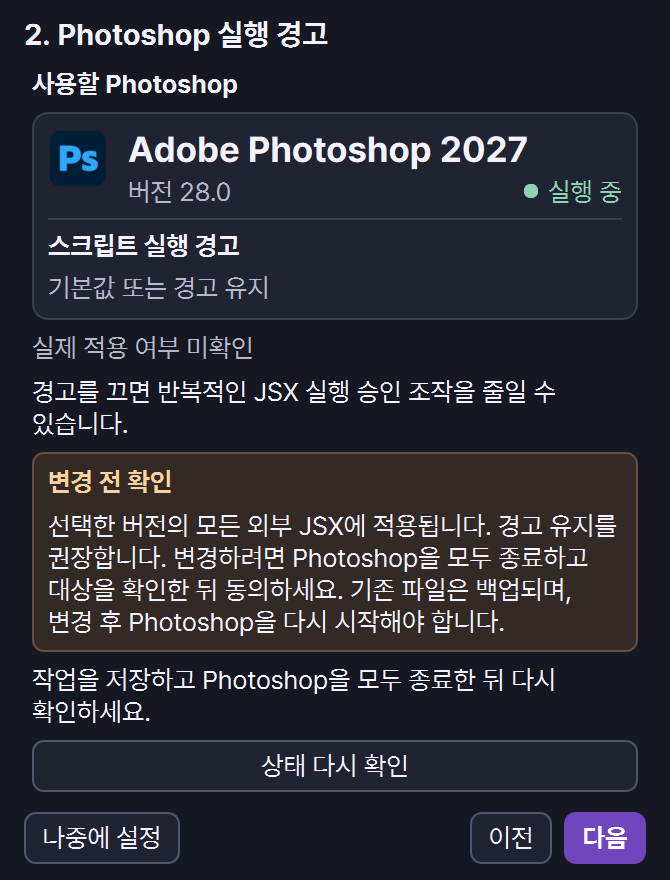
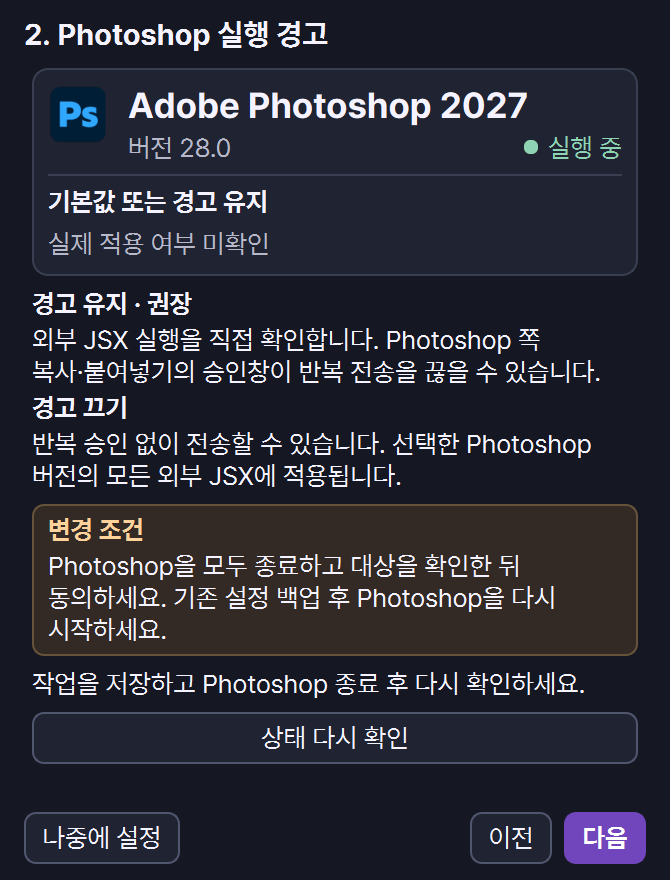
Explain the tradeoffs of Photoshop script warnings

diff --git a/bridge_ui.py b/bridge_ui.py
@@ -808,9 +808,12 @@ for _language, _guide in {
         "guide_ps_no_path": "지정되지 않음",
         "guide_ase_title": "Aseprite",
         "guide_warning_status": "스크립트 실행 경고",
-        "guide_warning_intro": "경고를 끄면 반복적인 JSX 실행 승인 조작을 줄일 수 있습니다.",
-        "guide_warning_caution": "변경 전 확인",
-        "guide_warning_optional": "선택한 버전의 모든 외부 JSX에 적용됩니다. 경고 유지를 권장합니다. 변경하려면 Photoshop을 모두 종료하고 대상을 확인한 뒤 동의하세요. 기존 파일은 백업되며, 변경 후 Photoshop을 다시 시작해야 합니다.",
+        "guide_warning_keep_title": "경고 유지 · 권장",
+        "guide_warning_keep_tradeoff": "외부 JSX 실행을 직접 확인합니다. Photoshop 쪽 복사·붙여넣기의 승인창이 반복 전송을 끊을 수 있습니다.",
+        "guide_warning_off_title": "경고 끄기",
+        "guide_warning_off_tradeoff": "반복 승인 없이 전송할 수 있습니다. 선택한 Photoshop 버전의 모든 외부 JSX에 적용됩니다.",
+        "guide_warning_caution": "변경 조건",
+        "guide_warning_optional": "Photoshop을 모두 종료하고 대상을 확인한 뒤 동의하세요. 기존 설정 백업 후 Photoshop을 다시 시작하세요.",
         "guide_warning_edit": "실행 경고 변경 검토…",
         "guide_warning_keep": "기본값 또는 경고 유지",
         "guide_warning_disabled": "설정 파일에서 경고 끔 확인 · 적용하려면 재시작 필요",
@@ -858,9 +861,12 @@ for _language, _guide in {
         "guide_ps_no_path": "Not set",
         "guide_ase_title": "Aseprite",
         "guide_warning_status": "Script warnings",
-        "guide_warning_intro": "Turning off warnings reduces repeated JSX approval prompts.",
-        "guide_warning_caution": "Before changing warnings",
-        "guide_warning_optional": "This affects all external JSX in the selected version. Keeping warnings is recommended. To change the setting, close Photoshop, review the target and confirm. Existing files are backed up. Restart Photoshop afterward.",
+        "guide_warning_keep_title": "Keep warnings · Recommended",
+        "guide_warning_keep_tradeoff": "Review external JSX before it runs. Copying or pasting in Photoshop can prompt for approval and interrupt repeated transfers.",
+        "guide_warning_off_title": "Turn warnings off",
+        "guide_warning_off_tradeoff": "Transfer without repeated script approval prompts. This applies to all external JSX in the selected Photoshop version.",
+        "guide_warning_caution": "Before changing",
+        "guide_warning_optional": "Close all Photoshop instances, review the target and impact, then confirm. The existing preferences file is backed up. Restart Photoshop to apply.",
         "guide_warning_edit": "Review script warning change…",
         "guide_warning_keep": "Default or warnings kept",
         "guide_warning_disabled": "Disabled in preferences · restart to apply",
@@ -908,9 +914,12 @@ for _language, _guide in {
         "guide_ps_no_path": "未指定",
         "guide_ase_title": "Aseprite",
         "guide_warning_status": "スクリプト実行警告",
-        "guide_warning_intro": "警告をオフにすると JSX 実行時の繰り返し承認を減らせます。",
-        "guide_warning_caution": "変更前の確認",
-        "guide_warning_optional": "選択したバージョンの全外部 JSX に適用されます。警告の維持を推奨します。変更する場合は Photoshop をすべて終了し、対象を確認して同意してください。既存ファイルはバックアップされます。変更後に Photoshop を再起動してください。",
+        "guide_warning_keep_title": "警告を維持 · 推奨",
+        "guide_warning_keep_tradeoff": "外部 JSX の実行を自分で確認できます。Photoshop 側でコピーや貼り付けをする際に承認が表示されると、連続転送が中断されることがあります。",
+        "guide_warning_off_title": "警告をオフ",
+        "guide_warning_off_tradeoff": "繰り返し承認せずに転送できます。選択した Photoshop バージョンのすべての外部 JSX に適用されます。",
+        "guide_warning_caution": "変更条件",
+        "guide_warning_optional": "Photoshop をすべて終了し、対象と影響を確認して同意してください。既存の設定ファイルはバックアップされます。適用には Photoshop の再起動が必要です。",
         "guide_warning_edit": "実行警告の変更を確認…",
         "guide_warning_keep": "既定値または警告を維持",
         "guide_warning_disabled": "設定ファイルで警告オフを確認 · 適用には再起動が必要",
@@ -953,7 +962,7 @@ GUIDE_FLOW = {
         "name": '초기 설정',
         "switch": '다른 버전으로 전환하려면 먼저 Photoshop을 종료하는 것을 권장합니다.',
         "refresh": '상태 다시 확인',
-        "stop": '작업을 저장하고 Photoshop을 모두 종료한 뒤 다시 확인하세요.',
+        "stop": '작업을 저장하고 Photoshop 종료 후 다시 확인하세요.',
         "disabled": '설정 파일에서 경고 끔 확인',
         "live": '실제 적용 여부 미확인',
         "restart": '이 세션에서 변경했습니다. 적용하려면 Photoshop을 다시 시작하세요.',
@@ -2241,8 +2250,9 @@ class AsepriteSetupDialog(QDialog):
 class GuidePhotoshopCard:
     def __init__(self, layout, lang, add_text, *, connection=False, warnings=False):
         self.lang = lang
-        heading = add_text(layout, lang["guide_ps_title"])
-        heading.setProperty("uiHeading", True)
+        if connection:
+            heading = add_text(layout, lang["guide_ps_title"])
+            heading.setProperty("uiHeading", True)
         panel = workspace_section(layout)
         header = QGridLayout()
         header.setHorizontalSpacing(8)
@@ -2286,10 +2296,10 @@ class GuidePhotoshopCard:
             note.setProperty("uiMuted", True)
         self.warning = None
         if warnings:
-            heading = add_text(panel, lang["guide_warning_status"])
-            heading.setProperty("uiHeading", True)
             self.warning = add_text(panel, "")
-            self.warning.setProperty("uiMuted", True)
+            self.warning.setProperty("uiHeading", True)
+            self.warning_live = add_text(panel, "")
+            self.warning_live.setProperty("uiMuted", True)
 
     def set_status(self, info, path, runtime, other_running, warning, icon):
         self.icon.setPixmap(icon)
@@ -2352,14 +2362,20 @@ class InitialSetupDialog(QDialog):
                 self.add_text(content, self.flow("switch")).setProperty("uiMuted", True)
             elif step == 1:
                 self.warning_status = GuidePhotoshopCard(content, self.lang, self.add_text, warnings=True)
-                self.warning_live = self.add_text(content, "")
-                self.warning_live.setProperty("uiMuted", True)
-                self.add_text(content, self.lang["guide_warning_intro"])
+                self.warning_live = self.warning_status.warning_live
+                choices = QVBoxLayout()
+                choices.setSpacing(2)
+                for choice in ("keep", "off"):
+                    heading = self.add_text(choices, self.lang[f"guide_warning_{choice}_title"])
+                    heading.setProperty("uiHeading", True)
+                    self.add_text(choices, self.lang[f"guide_warning_{choice}_tradeoff"])
+                content.addLayout(choices)
                 note = QWidget()
                 note.setObjectName("warningNote")
                 note.setAttribute(Qt.WA_StyledBackground)
                 note_layout = QVBoxLayout(note)
-                note_layout.setContentsMargins(8, 7, 8, 7)
+                note_layout.setContentsMargins(8, 5, 8, 5)
+                note_layout.setSpacing(2)
                 self.add_text(note_layout, self.lang["guide_warning_caution"]).setObjectName("warningHeading")
                 self.add_text(note_layout, self.lang["guide_warning_optional"])
                 content.addWidget(note)

diff --git a/docs/PROJECT_STATUS.md b/docs/PROJECT_STATUS.md
@@ -56,7 +56,7 @@
 
 ## 2026-11-25 초기 설정 가이드 마무리
 
-- Aseprite 제품·경로·실행 상태, 스크립트 설치·단축키 등록·Trust를 구분하고 확인 SVG와 F4/F5 키캡을 적용했습니다. 실행 경고 안내에 반복 JSX 승인 감소 효과를 추가했습니다.
+- Aseprite 제품·경로·실행 상태, 스크립트 설치·단축키 등록·Trust를 구분하고 확인 SVG와 F4/F5 키캡을 적용했습니다. 실행 경고는 Photoshop 쪽 복사·붙여넣기의 승인 비용, 선택 버전 전체 외부 JSX에 대한 영향과 변경 조건을 나눠 안내합니다.
 - Aseprite가 종료된 것으로 확인되면 테스트 PNG 하나만 직접 열기를 요청할 수 있습니다. 실행 중이거나 확인할 수 없거나 직접 열기에 실패하면 폴더로 안내합니다. 화면에서 내부 파일명은 기본으로 숨깁니다.
 - 준비·대기·일부 확인·완료를 구분하고 정상 종료 후 마무리 점검표에 결과를 유지합니다. 다시 테스트 시 초기화하며 대상 변경 시 관련 확인을 초기화합니다. F5는 결과 관찰, F4는 사용자 확인으로 표시합니다.
 - 테스트의 Qt 버튼 연결 대상에 대한 생성 전 `Mock` 치환이 기존 접근 위반을 유발했습니다. 생성 후 스파이로 기존 시작 순서 검증을 유지했습니다. 가이드 자동 테스트 24개와 Windows Qt 100%·200% 합성 화면을 확인했습니다. 실제 PNG 탭 열기·물리 F4/F5·Trust는 재검증하지 않았습니다. [마무리 검토 갤러리](ui-reviews/setup-guide-finish/README.md)

diff --git a/docs/ui-reviews/setup-guide-finish/README.md b/docs/ui-reviews/setup-guide-finish/README.md
@@ -10,7 +10,7 @@
 | F5만 관찰됐을 때 F4 안내와 종료 선택 | [일부 확인 · 100%](shortcut-partial.png) |
 | 두 결과 표시 및 테스트 마치기 | [완료 · 100%](shortcut-complete.png) |
 | 임시 자원 정리 후에도 유지된 결과 | [최종 점검표 · 100%](review-after-finish.png) |
-| 반복 승인 감소의 이점과 경고 유지 권장 | [실행 경고 · 200%](warning-compact-200.png) |
+| 경고 유지·끄기의 작업상 차이, 외부 JSX 범위 및 변경 조건 | [실행 경고 · 200%](warning-compact-200.png) |
 
 - 100% 논리 창 520×590, 200% 논리 창 335×440에서 대표 상태를 확인했습니다. 각 캡처의 가로·세로 스크롤 범위는 0이었습니다.
 - 직접 열기는 선택된 Aseprite가 종료된 것으로 확인된 경우에만 실행 파일에 생성한 PNG 하나를 인수로 전달합니다. 실행 중이거나 상태가 불명확하면 기존 창에서 파일을 열도록 안내합니다. 실행 요청이 실패해도 폴더 버튼을 사용할 수 있습니다. [Aseprite CLI 파일 인수](https://aseprite.org/docs/cli/) · [Qt 프로세스 실행 계약](https://doc.qt.io/qtforpython-6/PySide6/QtCore/QProcess.html#PySide6.QtCore.QProcess.startDetached)
